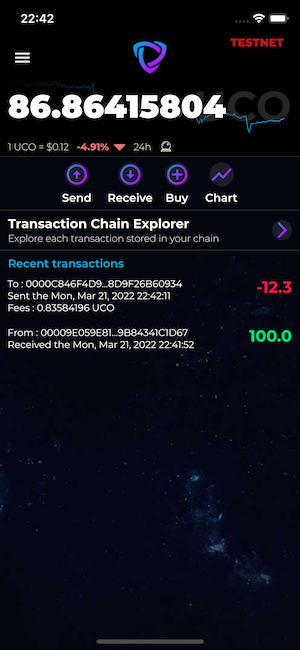
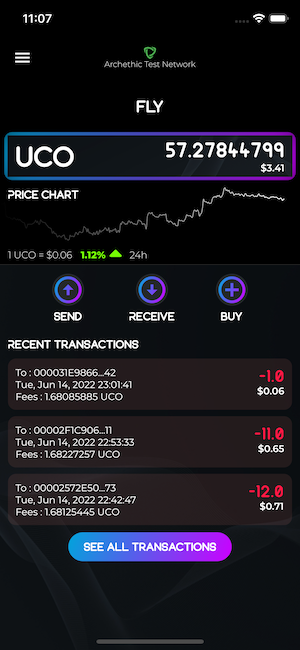
update screenshot

diff --git a/README.md b/README.md
@@ -18,7 +18,7 @@ Archethic Wallet have features that are implemented:
 - Support for transactions (Sending and Receiving Tokens)
 - Upcoming Support for NFTs and Many More
 
-![Application Initial Screen](assets/screenshots/AppInit.png?v=20220322)
+![Application Initial Screen](assets/screenshots/AppInit.png?v=20220614)
 * Application Initial Screen
 
 ## How to install Archethic Wallet
